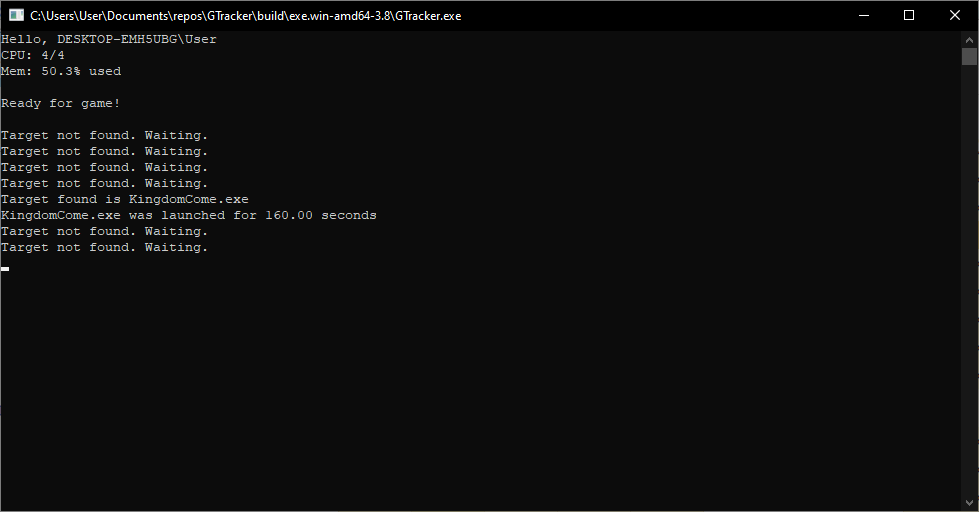
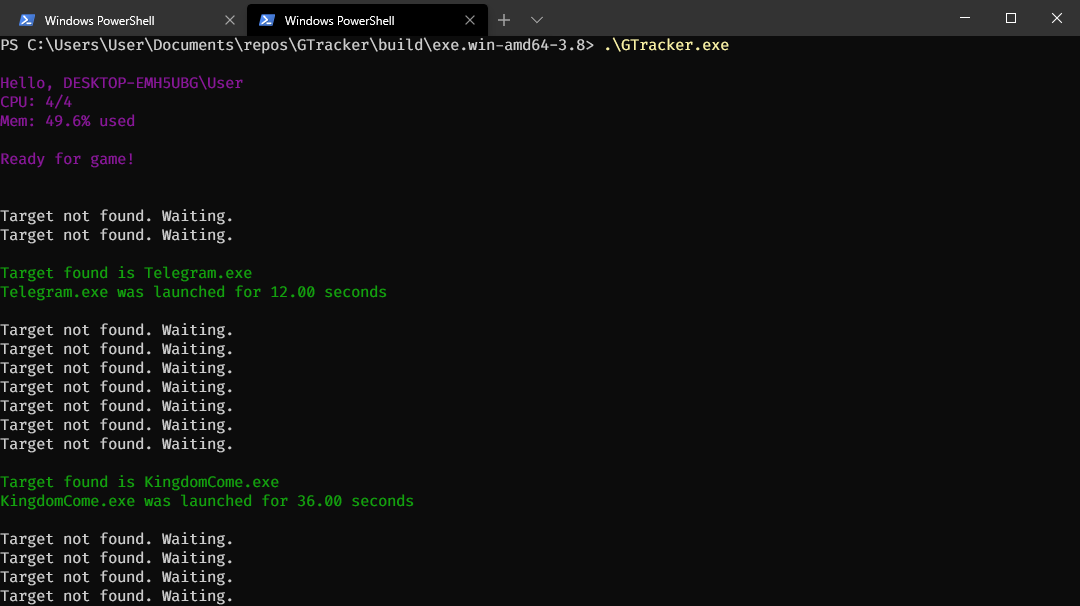
Add colorama
* add color to text
* change README and screenshot
* console open

diff --git a/daemon.py b/daemon.py
@@ -1,7 +1,12 @@
 import configparser
 from time import sleep
 
+from colorama import Fore, init
+
 from GTracker import GTracker
+
+# Init colorama
+init()
 
 config = configparser.ConfigParser()
 config.read('config.ini')
@@ -13,7 +18,9 @@ path_to_games = config.get('settings', 'path_to_games')
 
 tracker = GTracker.GTracker(path_to_db, path_to_games)
 
+print(Fore.MAGENTA)
 print(tracker.welcome())
+print(Fore.RESET)
 while True:
     while tracker.found_target() is None:
         print("Target not found. Waiting.")
@@ -21,6 +28,7 @@ while True:
 
     target = tracker.found_target()
 
+    print(Fore.GREEN)
     print("Target found is {}".format(tracker.game))
 
     while target.is_running():
@@ -31,6 +39,7 @@ while True:
     # May give bugs with fantastic values
 
     print("{} was launched for {:.2f} seconds".format(tracker.game, tracker.timer))
+    print(Fore.RESET)
     tracker.save_result()
 
     # Reset timer and target for next game

diff --git a/setup.py b/setup.py
@@ -1,7 +1,7 @@
 import cx_Freeze
 
 exe = [cx_Freeze.Executable("daemon.py", 
-                            base = "Win32GUI",
+                            base = "Console",
                             targetName = "GTracker",
                             shortcutName = "GTracker",
                             copyright = "Viktor Karpov")]
@@ -9,7 +9,7 @@ exe = [cx_Freeze.Executable("daemon.py",
 cx_Freeze.setup(
     name = "GTracker",
     version = "0.2.2",
-    options = {"build_exe": {"packages": ["psutil", "GTracker", "configparser", "sys"],  
+    options = {"build_exe": {"packages": ["psutil", "GTracker", "configparser", "colorama", "sys"],  
         "include_files": ["config.ini", "games.txt"]}},
     executables = exe
 ) 
